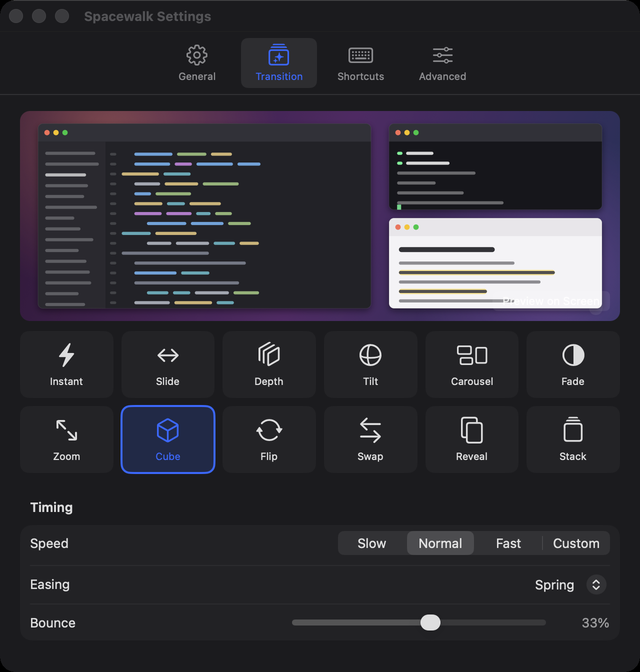
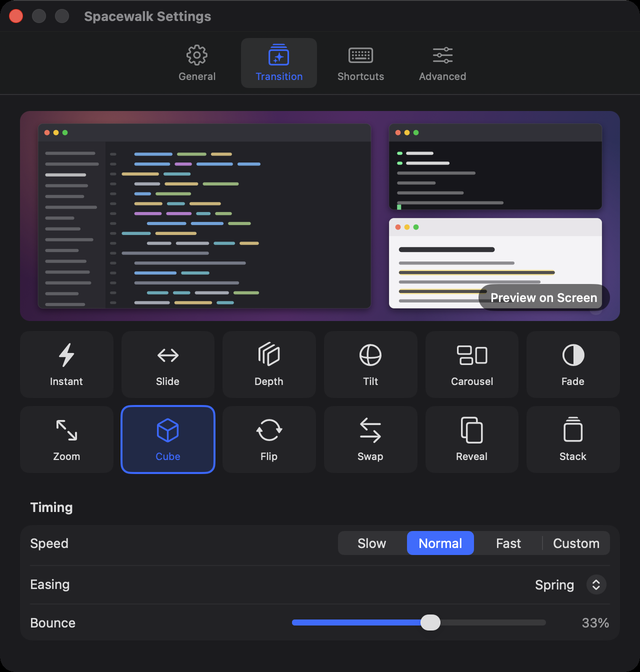
Settings: preview button readable over any mock desk

diff --git a/Sources/Spacewalk/SettingsView.swift b/Sources/Spacewalk/SettingsView.swift
@@ -200,8 +200,14 @@ struct TransitionTab: View {
                     .frame(height: 210)
                     .opacity(model.settings.effect == .instant ? 0.3 : 1)
                     .overlay(alignment: .bottomTrailing) {
+                        // A fixed dark chip: the mock desk behind it can be light or dark.
                         Button("Preview on Screen") { model.preview() }
-                            .controlSize(.small)
+                            .buttonStyle(.plain)
+                            .font(.callout.weight(.medium))
+                            .foregroundStyle(.white)
+                            .padding(.horizontal, 12)
+                            .padding(.vertical, 6)
+                            .background(Color.black.opacity(0.55), in: Capsule())
                             .padding(10)
                     }
                 EffectGallery(selection: $model.settings.effect)
